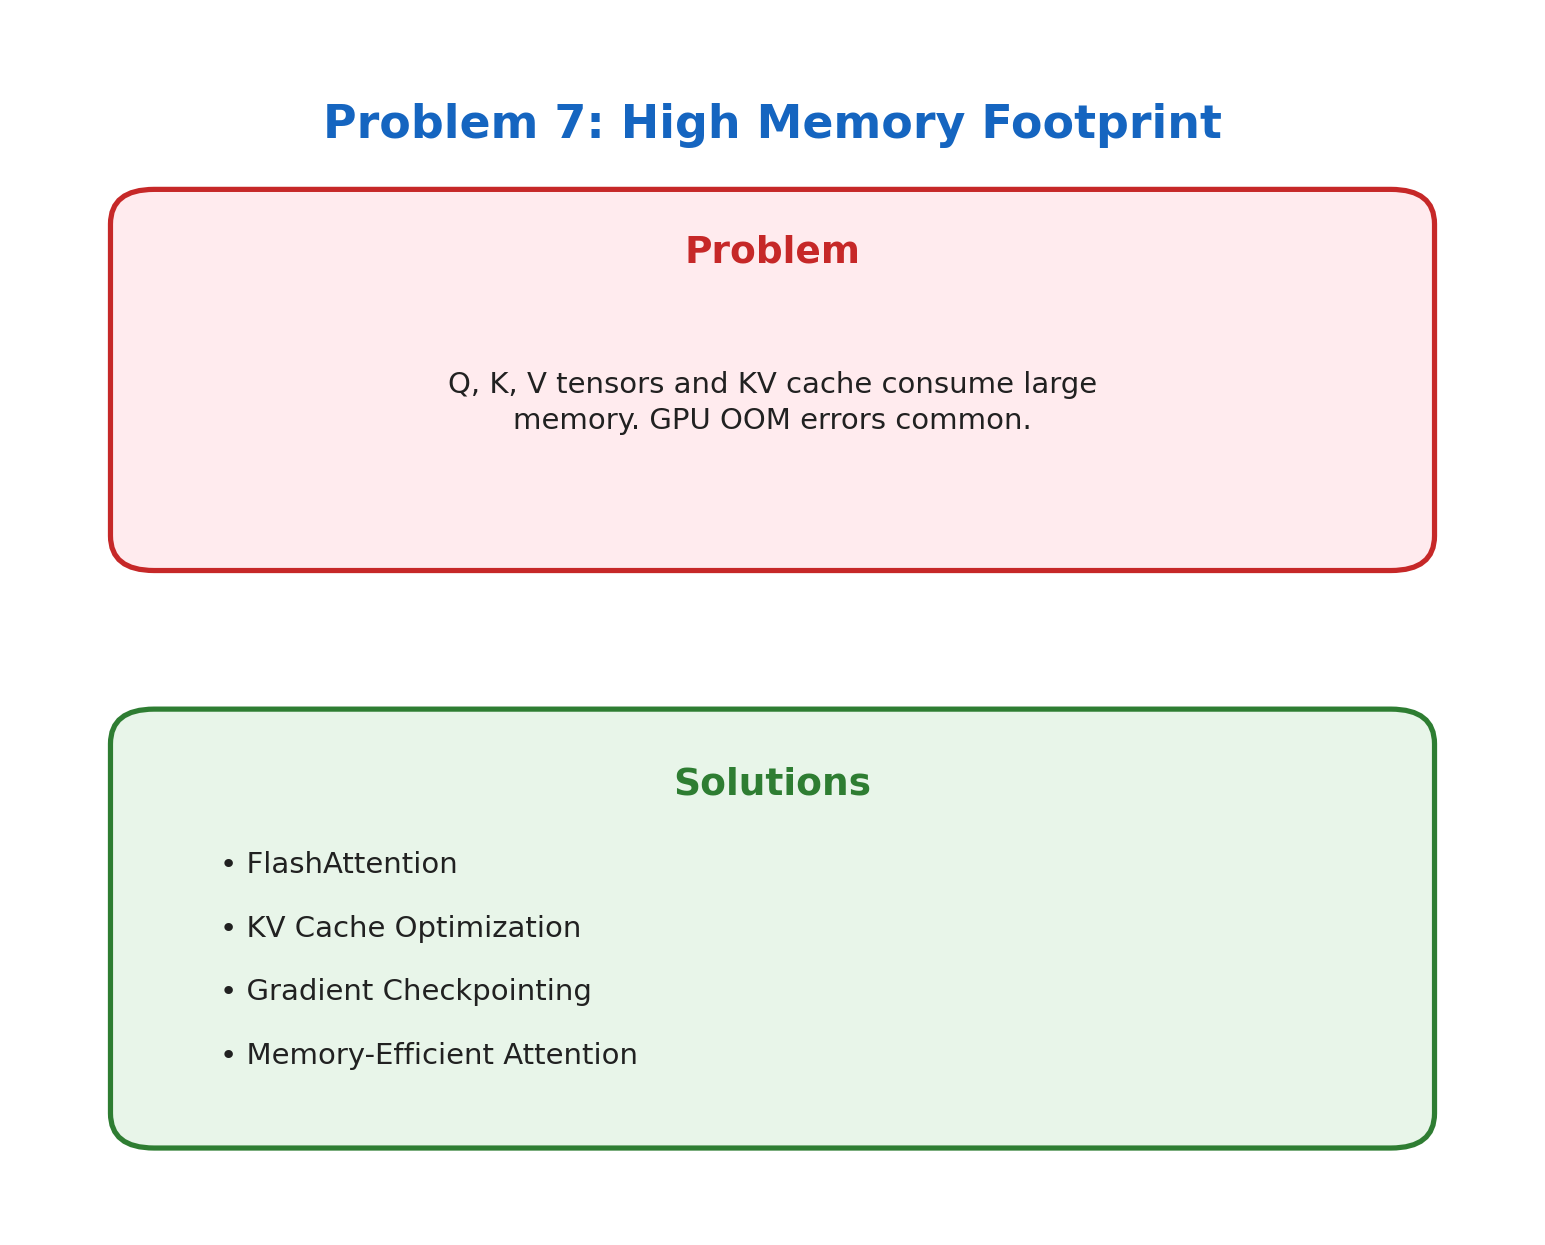
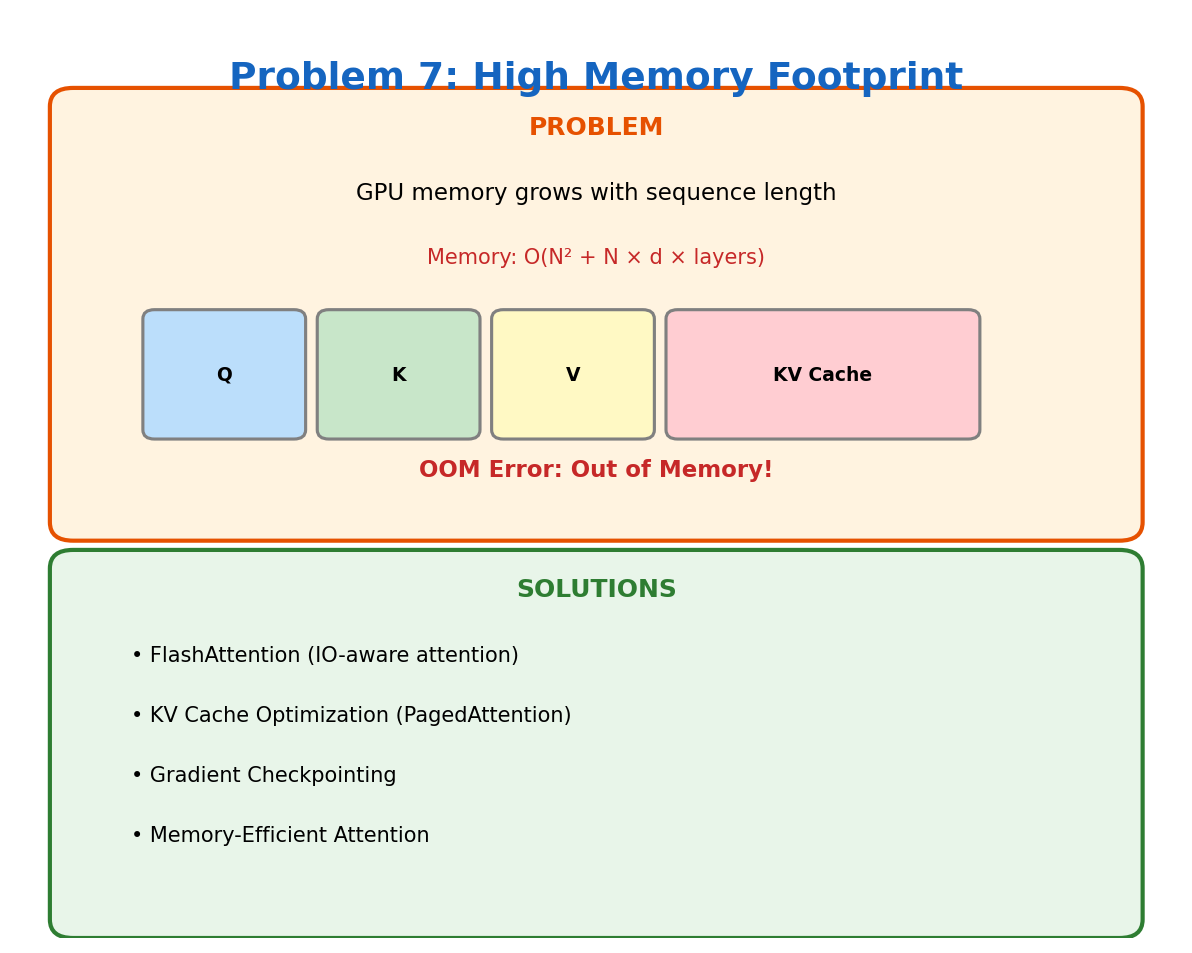
Update Problem 07: Memory Footprint - human-readable README

diff --git a/07_memory_footprint/README.md b/07_memory_footprint/README.md
@@ -1,23 +1,68 @@
 # Problem 7: High Memory Footprint
 
-## Problem
+[← Back to Main](../README.md) | [← Previous](../06_data_hungry/README.md) | [Next →](../08_compute_cost/README.md)
 
-Q, K, V tensors and KV cache consume large memory. GPU OOM errors common.
+---
 
-The attention mechanism requires storing Query, Key, and Value matrices for all layers. During inference, the KV cache grows linearly with sequence length, often causing out-of-memory errors on GPUs.
+![Problem 7](./problem.png)
 
-## Solutions
+## What's the Problem?
 
-| Solution | Description |
-|----------|-------------|
-| **FlashAttention** | Tiled attention computation that minimizes memory transfers |
-| **KV Cache Optimization** | Techniques like PagedAttention, grouped-query attention |
-| **Gradient Checkpointing** | Trade compute for memory by recomputing activations |
-| **Memory-Efficient Attention** | Various implementations that reduce peak memory usage |
+Ever seen "CUDA out of memory" when running a transformer? Welcome to the club.
 
-## References
+Here's what's eating your GPU memory:
+- Model weights (billions of parameters × 2-4 bytes each)
+- Activations (saved for backprop)
+- The attention matrix (N² elements per layer per head)
+- KV cache during inference (grows with sequence length)
 
-- [FlashAttention](https://arxiv.org/abs/2205.14135) - Fast and Memory-Efficient Exact Attention
-- [PagedAttention (vLLM)](https://arxiv.org/abs/2309.06180) - Efficient Memory Management for LLM Serving
-- [Gradient Checkpointing](https://arxiv.org/abs/1604.06174) - Training Deep Nets with Sublinear Memory Cost
+A 7B parameter model needs ~14GB just for weights in fp16. Add activations and attention matrices during training, and you're looking at 40-80GB easily.
 
+## The KV Cache Problem
+
+During inference, the KV cache grows linearly with sequence length:
+```
+KV cache size = 2 × layers × heads × d_head × seq_len × batch_size
+```
+
+For a 70B model with 128K context? That's ~40GB just for the KV cache. Per request.
+
+## Why This Matters
+
+- **Training**: Limits batch size, which hurts convergence
+- **Inference**: Limits concurrent users, increases cost
+- **Edge deployment**: Forget about it
+
+## How Do We Fix It?
+
+| Approach | What It Does |
+|----------|--------------|
+| **FlashAttention** | Computes attention without materializing the full N² matrix |
+| **Gradient Checkpointing** | Don't save all activations — recompute them during backward pass |
+| **PagedAttention** | Manage KV cache like virtual memory (used in vLLM) |
+| **GQA/MQA** | Share KV heads across query heads — smaller cache |
+| **Quantization** | 4-bit weights use 4x less memory than 16-bit |
+
+## FlashAttention: The Game Changer
+
+Traditional attention:
+1. Compute QK^T (N² matrix)
+2. Store it
+3. Apply softmax
+4. Multiply by V
+
+FlashAttention:
+1. Process in tiles that fit in SRAM
+2. Never materialize full N² matrix in HBM
+3. Same exact result, fraction of the memory
+
+This is now the default in most frameworks.
+
+## Learn More
+
+- [FlashAttention](https://arxiv.org/abs/2205.14135) — The paper
+- [vLLM](https://arxiv.org/abs/2309.06180) — PagedAttention for serving
+
+---
+
+[← Back to Main](../README.md) | [← Previous](../06_data_hungry/README.md) | [Next →](../08_compute_cost/README.md)
